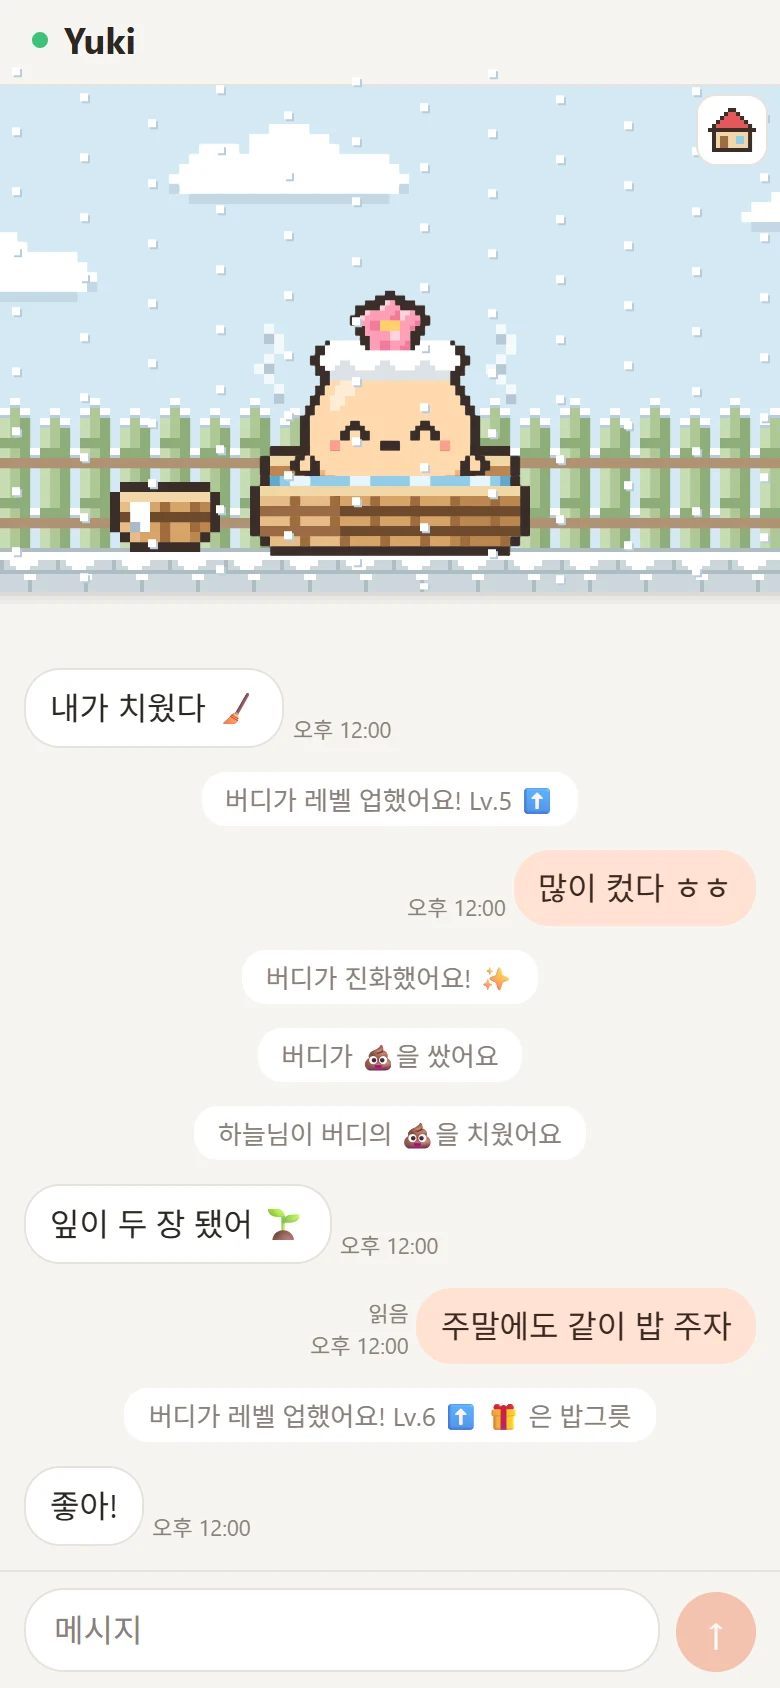
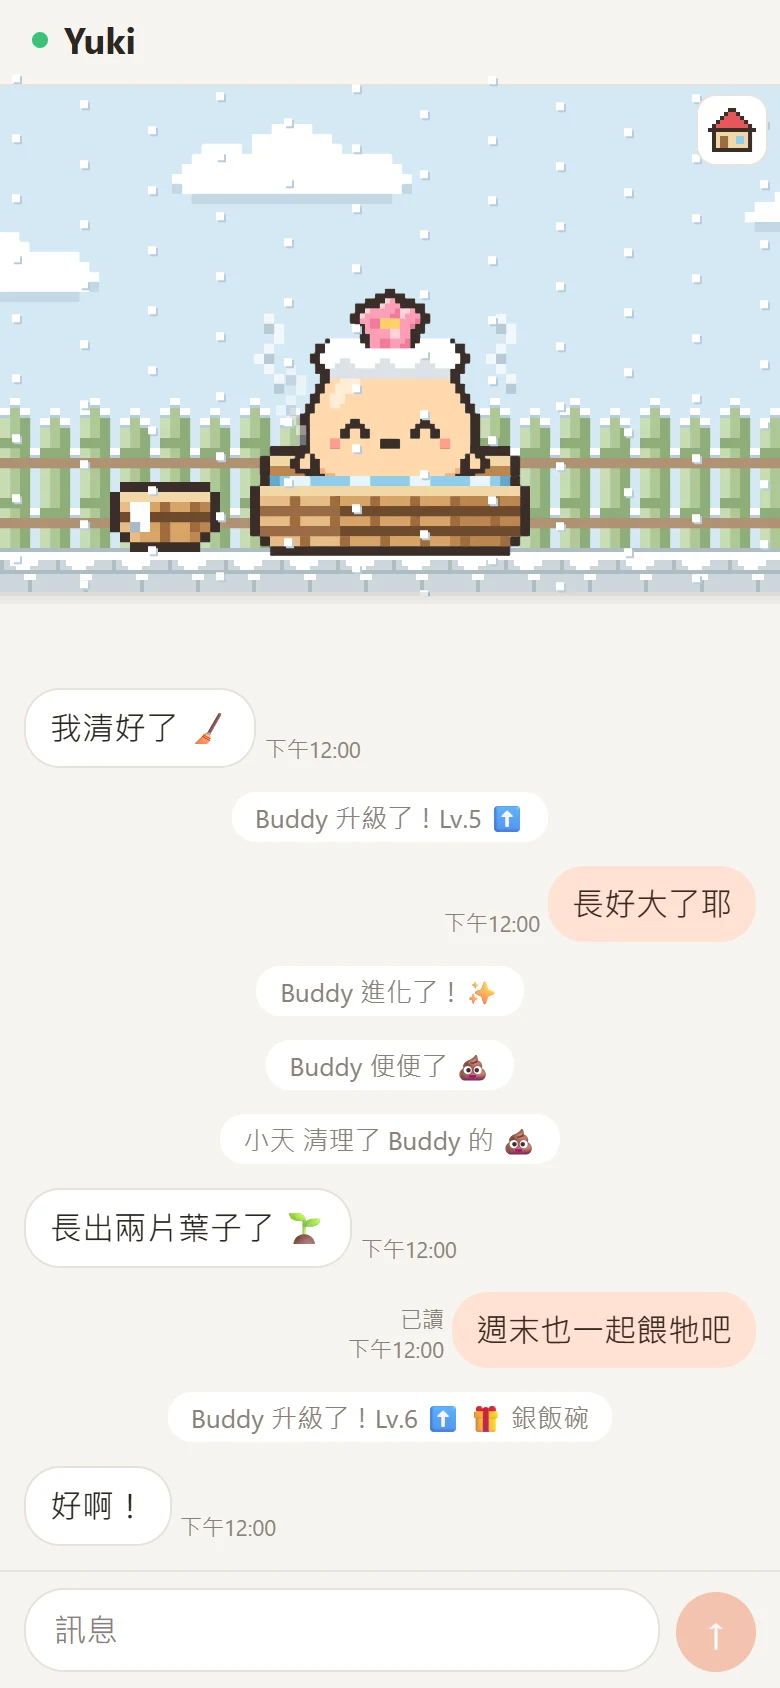
Puny Chat 갤러리를 장면마다 다른 채팅 언어로 (#27)
Lv.10 한국어, Lv.20 직업 영어, 온천 일본어, 눈 온천 중국어(번체)로
바꿔 세 언어 페이지에서 같은 4장을 보여 준다. alt에 채팅 언어를 적었다.

diff --git a/app/content/projects/puny-chat/index.ts b/app/content/projects/puny-chat/index.ts
@@ -63,10 +63,10 @@ export const punyChat: Project = {
     },
   ],
   gallery: [
-    { src: kid, alt: "The kid buddy at Lv.10 on the stage, with the poop and cleaning events in the chat below", frame: "phone" },
-    { src: adult, alt: "The adult buddy at its job station with a flower on its head, above a chat about the weekend", frame: "phone" },
-    { src: onsen, alt: "The buddy in an open-air hot spring with a towel on its head, and the chat still running below", frame: "phone" },
-    { src: onsenSnow, alt: "The same hot spring in winter, with snow falling", frame: "phone" },
+    { src: kid, alt: "The kid buddy at Lv.10 on the stage, with the poop and cleaning events in a Korean chat below", frame: "phone" },
+    { src: adult, alt: "The adult buddy at its job station with a flower on its head, above a chat in English about the weekend", frame: "phone" },
+    { src: onsen, alt: "The buddy in an open-air hot spring with a towel on its head, and the chat still running below in Japanese", frame: "phone" },
+    { src: onsenSnow, alt: "The same hot spring in winter, with snow falling, and the chat in Traditional Chinese", frame: "phone" },
   ],
   stack: [
     { area: "App", items: "Expo (React Native) · TypeScript · Expo Router — iPhone and web from one codebase" },

diff --git a/app/content/projects/puny-chat/ja.ts b/app/content/projects/puny-chat/ja.ts
@@ -49,10 +49,10 @@ export const ja: ProjectCopy = {
     main: "デスクトップブラウザのPuny Chat。チャットの上のステージで、おとなのバディが仕事の道具のそばにいる",
     inset: "スマホのPuny Chat。働くおとなのバディと、メッセージの間に表示されるできごと",
     gallery: [
-      "ステージにいるLv.10の子どものバディ。下のチャットにはうんちと掃除のできごとが並ぶ",
-      "仕事場にいる、頭に花をのせたおとなのバディ。下では週末の話をしている",
-      "露天風呂に入るバディ。頭にタオルをのせていて、下ではチャットが続いている",
-      "同じ露天風呂に雪が降る冬の様子",
+      "ステージにいるLv.10の子どものバディ。下の韓国語のチャットにはうんちと掃除のできごとが並ぶ",
+      "仕事場にいる、頭に花をのせたおとなのバディ。下では英語で週末の話をしている",
+      "露天風呂に入るバディ。頭にタオルをのせていて、下では日本語のチャットが続いている",
+      "同じ露天風呂に雪が降る冬の様子。チャットは中国語（繁体字）",
     ],
   },
 };

diff --git a/app/content/projects/puny-chat/ko.ts b/app/content/projects/puny-chat/ko.ts
@@ -49,10 +49,10 @@ export const ko: ProjectCopy = {
     main: "데스크톱 브라우저의 Puny Chat. 채팅 위 무대에서 어른 버디가 직업 장치 옆에 있다",
     inset: "휴대폰의 Puny Chat. 일하는 어른 버디와 메시지 사이에 섞인 이벤트",
     gallery: [
-      "무대 위의 Lv.10 어린이 버디. 아래 채팅에는 똥과 청소 이벤트가 이어진다",
-      "직업 장치 앞에 선, 머리에 꽃을 얹은 어른 버디. 아래에서는 주말 이야기를 한다",
-      "노천탕에 들어간 버디. 머리에 수건을 얹었고 아래에서는 채팅이 이어진다",
-      "같은 노천탕에 눈이 내리는 겨울 모습",
+      "무대 위의 Lv.10 어린이 버디. 아래 한국어 채팅에는 똥과 청소 이벤트가 이어진다",
+      "직업 장치 앞에 선, 머리에 꽃을 얹은 어른 버디. 아래에서는 영어로 주말 이야기를 한다",
+      "노천탕에 들어간 버디. 머리에 수건을 얹었고 아래에서는 일본어 채팅이 이어진다",
+      "같은 노천탕에 눈이 내리는 겨울 모습. 채팅은 중국어(번체)",
     ],
   },
 };

diff --git a/docs/VALIDATION.md b/docs/VALIDATION.md
@@ -2,6 +2,12 @@
 
 기준일: 2026-10-22 (Asia/Seoul)
 
+## Puny Chat 갤러리 언어 섞기 (2026-10-22)
+
+- 사용자 요청에 따라 갤러리 4장을 장면마다 채팅 언어가 다르게 바꿨다(Lv.10 한국어, Lv.20 직업 영어, 온천 일본어, 눈 온천 중국어 번체). 장면은 그대로이고 세 언어 페이지가 같은 4장을 쓴다. 이미지 원본은 바로 아래 재촬영 때 찍은 16장 중 4장이다.
+- alt에 각 장면의 채팅 언어를 세 언어로 적었고, `docs/baseline.json`은 Puny Chat 상세 3개 경로의 alt만 바뀌었다.
+- 로컬 Node 26.7.0에서 `pnpm check`, `pnpm generate`(33개 페이지, 381개 자산 검증), `pnpm test:pages`가 통과했다.
+
 ## Puny Chat 스크린샷 재촬영 (2026-10-22)
 
 - 사용자 요청에 따라 `ottuck/puny-chat`을 임시 폴더에 받아 Expo 웹 개발 서버로 띄우고, 기존 갤러리와 같은 4장면(Lv.10 어린이, Lv.20 직업 장치의 어른, 온천, 눈 오는 온천)을 구경하기 데모 대본으로 다시 찍었다. 임시 사본에서만 데모 화면에 장면 선택 주소값(단계·레벨·직업·온천·눈, 배속·멈춤 시점)을 더했고, Firebase 설정은 형식만 맞춘 가짜 값을 `.env.local`에 두었다. 원래 저장소에는 아무것도 올리지 않았다.
